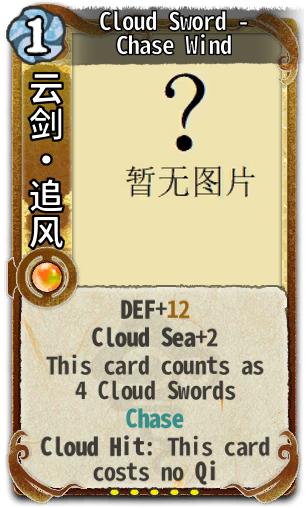
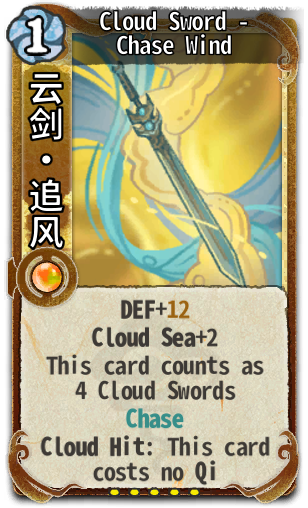
Fix Chase Wind card art

diff --git a/en/seasons/sect-rotation.html b/en/seasons/sect-rotation.html
@@ -8,6 +8,6 @@
 </head>
 <body>
   <header><a class="brand" href="/yxp_wiki/en/index.html">Yi Xian Wiki</a><nav><a href="/yxp_wiki/en/index.html">Home</a><a href="/yxp_wiki/en/characters/index.html">Characters</a><a href="/yxp_wiki/en/cards/index.html">Cards</a><a href="/yxp_wiki/en/fates/index.html">Immortal Fates</a></nav><a class="lang" href="/yxp_wiki/zh/index.html">中文</a></header>
-  <main><section class="season-hero luck-hero"><div><h1>Heavenly Derivation</h1><p class="muted">Starting with this season, new regular sect cards are temporarily added to each sect&#x27;s card pool. The regular sect additions below will be replaced with different cards next season.</p><div class="mechanic-actions"><a class="pill" href="/yxp_wiki/en/cards/index.html">Card catalog</a></div></div><div class="season-hero-cards"><a href="/yxp_wiki/en/cards/7000094.html"><img src="/yxp_wiki/assets/cards/7000094_en.png" alt="Seal Suppression Citta-Dharma"></a><a href="/yxp_wiki/en/cards/10000090.html"><img src="/yxp_wiki/assets/cards/10000090_en.png" alt="Drunken Fist Stance"></a><a href="/yxp_wiki/en/cards/1000098.html"><img src="/yxp_wiki/assets/cards/1000098_en.png" alt="Cloud Sword - Chase Wind"></a></div></section><h2>Ultimate Cards</h2><div class="luck-sect-list"><section class="luck-sect"><div class="luck-sect-head"><img src="/yxp_wiki/assets/sects/sect_badge_1.png" alt=""><div><h3>Cloud Spirit Sword Sect</h3></div></div><div class="luck-card-grid"><a class="luck-card" href="/yxp_wiki/en/cards/1000096.html"><img src="/yxp_wiki/assets/cards/1000096_en.png" alt="Ultimate - Cloud Sword - Softheart"><span>Ultimate - Cloud Sword - Softheart</span></a><a class="luck-card" href="/yxp_wiki/en/cards/1000097.html"><img src="/yxp_wiki/assets/cards/1000097_en.png" alt="Ultimate - Raven Spirit Sword"><span>Ultimate - Raven Spirit Sword</span></a></div></section><section class="luck-sect"><div class="luck-sect-head"><img src="/yxp_wiki/assets/sects/sect_badge_2.png" alt=""><div><h3>Heptastar Pavilion</h3></div></div><div class="luck-card-grid"><a class="luck-card" href="/yxp_wiki/en/cards/4000098.html"><img src="/yxp_wiki/assets/cards/4000098_en.png" alt="Ultimate - Stillness Citta-Dharma"><span>Ultimate - Stillness Citta-Dharma</span></a><a class="luck-card" href="/yxp_wiki/en/cards/4000099.html"><img src="/yxp_wiki/assets/cards/4000099_en.png" alt="Ultimate - Yin Yang Formation"><span>Ultimate - Yin Yang Formation</span></a></div></section><section class="luck-sect"><div class="luck-sect-head"><img src="/yxp_wiki/assets/sects/sect_badge_3.png" alt=""><div><h3>Five Elements Alliance</h3></div></div><div class="luck-card-grid"><a class="luck-card" href="/yxp_wiki/en/cards/7000104.html"><img src="/yxp_wiki/assets/cards/7000104_en.png" alt="Ultimate - Water Spirit Formation"><span>Ultimate - Water Spirit Formation</span></a><a class="luck-card" href="/yxp_wiki/en/cards/7000105.html"><img src="/yxp_wiki/assets/cards/7000105_en.png" alt="Ultimate - Wood Spirit - Forest Guard"><span>Ultimate - Wood Spirit - Forest Guard</span></a></div></section><section class="luck-sect"><div class="luck-sect-head"><img src="/yxp_wiki/assets/sects/sect_badge_4.png" alt=""><div><h3>Duan Xuan Sect</h3></div></div><div class="luck-card-grid"><a class="luck-card" href="/yxp_wiki/en/cards/10000098.html"><img src="/yxp_wiki/assets/cards/10000098_en.png" alt="Ultimate - Crash Footwork"><span>Ultimate - Crash Footwork</span></a><a class="luck-card" href="/yxp_wiki/en/cards/10000099.html"><img src="/yxp_wiki/assets/cards/10000099_en.png" alt="Ultimate - Windward Palms"><span>Ultimate - Windward Palms</span></a></div></section></div><h2>Regular Sect Cards</h2><div class="luck-sect-list"><section class="luck-sect"><div class="luck-sect-head"><img src="/yxp_wiki/assets/sects/sect_badge_1.png" alt=""><div><h3>Cloud Spirit Sword Sect</h3><p class="muted">These regular sect cards enter the pool for this season, then rotate out when next season brings a different set.</p></div></div><div class="luck-card-grid"><a class="luck-card" href="/yxp_wiki/en/cards/1000088.html"><img src="/yxp_wiki/assets/cards/1000088_en.png" alt="Spirit Command Citta-Dharma"><span>Spirit Command Citta-Dharma</span></a><a class="luck-card" href="/yxp_wiki/en/cards/1000089.html"><img src="/yxp_wiki/assets/cards/1000089_en.png" alt="Vermilion Sparrow Spirit Sword"><span>Vermilion Sparrow Spirit Sword</span></a><a class="luck-card" href="/yxp_wiki/en/cards/1000090.html"><img src="/yxp_wiki/assets/cards/1000090_en.png" alt="Flying Leopard Spirit Sword"><span>Flying Leopard Spirit Sword</span></a><a class="luck-card" href="/yxp_wiki/en/cards/1000091.html"><img src="/yxp_wiki/assets/cards/1000091_en.png" alt="Cloud Sword - Rend Sky"><span>Cloud Sword - Rend Sky</span></a><a class="luck-card" href="/yxp_wiki/en/cards/1000092.html"><img src="/yxp_wiki/assets/cards/1000092_en.png" alt="Spirit Pivot Sword Formation"><span>Spirit Pivot Sword Formation</span></a><a class="luck-card" href="/yxp_wiki/en/cards/1000094.html"><img src="/yxp_wiki/assets/cards/1000094_en.png" alt="Swift Shadow Flying Sword"><span>Swift Shadow Flying Sword</span></a><a class="luck-card" href="/yxp_wiki/en/cards/1000095.html"><img src="/yxp_wiki/assets/cards/1000095_en.png" alt="Sword Shadow Barrier"><span>Sword Shadow Barrier</span></a><a class="luck-card" href="/yxp_wiki/en/cards/1000098.html"><img src="/yxp_wiki/assets/cards/1000098_en.png" alt="Cloud Sword - Chase Wind"><span>Cloud Sword - Chase Wind</span></a></div></section><section class="luck-sect"><div class="luck-sect-head"><img src="/yxp_wiki/assets/sects/sect_badge_2.png" alt=""><div><h3>Heptastar Pavilion</h3><p class="muted">These regular sect cards enter the pool for this season, then rotate out when next season brings a different set.</p></div></div><div class="luck-card-grid"><a class="luck-card" href="/yxp_wiki/en/cards/4000090.html"><img src="/yxp_wiki/assets/cards/4000090_en.png" alt="Star Gazing Rhythm"><span>Star Gazing Rhythm</span></a><a class="luck-card" href="/yxp_wiki/en/cards/4000091.html"><img src="/yxp_wiki/assets/cards/4000091_en.png" alt="Rhinoceros Gazing at the Moon"><span>Rhinoceros Gazing at the Moon</span></a><a class="luck-card" href="/yxp_wiki/en/cards/4000092.html"><img src="/yxp_wiki/assets/cards/4000092_en.png" alt="Soul Wound Curse Formation"><span>Soul Wound Curse Formation</span></a><a class="luck-card" href="/yxp_wiki/en/cards/4000093.html"><img src="/yxp_wiki/assets/cards/4000093_en.png" alt="Astral Move - Extend"><span>Astral Move - Extend</span></a><a class="luck-card" href="/yxp_wiki/en/cards/4000094.html"><img src="/yxp_wiki/assets/cards/4000094_en.png" alt="Astral Move - Ko Fight"><span>Astral Move - Ko Fight</span></a><a class="luck-card" href="/yxp_wiki/en/cards/4000095.html"><img src="/yxp_wiki/assets/cards/4000095_en.png" alt="Spirit Snake Coiling Pillar"><span>Spirit Snake Coiling Pillar</span></a><a class="luck-card" href="/yxp_wiki/en/cards/4000096.html"><img src="/yxp_wiki/assets/cards/4000096_en.png" alt="Branch Break Acupressure"><span>Branch Break Acupressure</span></a><a class="luck-card" href="/yxp_wiki/en/cards/4000097.html"><img src="/yxp_wiki/assets/cards/4000097_en.png" alt="Drawing the Bow at the Tiger"><span>Drawing the Bow at the Tiger</span></a></div></section><section class="luck-sect"><div class="luck-sect-head"><img src="/yxp_wiki/assets/sects/sect_badge_3.png" alt=""><div><h3>Five Elements Alliance</h3><p class="muted">These regular sect cards enter the pool for this season, then rotate out when next season brings a different set.</p></div></div><div class="luck-card-grid"><a class="luck-card" href="/yxp_wiki/en/cards/7000094.html"><img src="/yxp_wiki/assets/cards/7000094_en.png" alt="Seal Suppression Citta-Dharma"><span>Seal Suppression Citta-Dharma</span></a><a class="luck-card" href="/yxp_wiki/en/cards/7000095.html"><img src="/yxp_wiki/assets/cards/7000095_en.png" alt="Five Elements Spirit Strike"><span>Five Elements Spirit Strike</span></a><a class="luck-card" href="/yxp_wiki/en/cards/7000096.html"><img src="/yxp_wiki/assets/cards/7000096_en.png" alt="Earth Spirit - Burrow"><span>Earth Spirit - Burrow</span></a><a class="luck-card" href="/yxp_wiki/en/cards/7000097.html"><img src="/yxp_wiki/assets/cards/7000097_en.png" alt="Wood Spirit - Spring Breeze"><span>Wood Spirit - Spring Breeze</span></a><a class="luck-card" href="/yxp_wiki/en/cards/7000098.html"><img src="/yxp_wiki/assets/cards/7000098_en.png" alt="Fire Spirit - Vein Burn Rhythm"><span>Fire Spirit - Vein Burn Rhythm</span></a><a class="luck-card" href="/yxp_wiki/en/cards/7000099.html"><img src="/yxp_wiki/assets/cards/7000099_en.png" alt="Metal Spirit - Returning Edge"><span>Metal Spirit - Returning Edge</span></a><a class="luck-card" href="/yxp_wiki/en/cards/7000100.html"><img src="/yxp_wiki/assets/cards/7000100_en.png" alt="Water Spirit - Ride the Waves"><span>Water Spirit - Ride the Waves</span></a><a class="luck-card" href="/yxp_wiki/en/cards/7000101.html"><img src="/yxp_wiki/assets/cards/7000101_en.png" alt="Primordial Spirit Transmutation"><span>Primordial Spirit Transmutation</span></a></div></section><section class="luck-sect"><div class="luck-sect-head"><img src="/yxp_wiki/assets/sects/sect_badge_4.png" alt=""><div><h3>Duan Xuan Sect</h3><p class="muted">These regular sect cards enter the pool for this season, then rotate out when next season brings a different set.</p></div></div><div class="luck-card-grid"><a class="luck-card" href="/yxp_wiki/en/cards/10000097.html"><img src="/yxp_wiki/assets/cards/10000097_en.png" alt="Vajra Smash"><span>Vajra Smash</span></a><a class="luck-card" href="/yxp_wiki/en/cards/10000090.html"><img src="/yxp_wiki/assets/cards/10000090_en.png" alt="Drunken Fist Stance"><span>Drunken Fist Stance</span></a><a class="luck-card" href="/yxp_wiki/en/cards/10000091.html"><img src="/yxp_wiki/assets/cards/10000091_en.png" alt="Mystic Spirit Healing"><span>Mystic Spirit Healing</span></a><a class="luck-card" href="/yxp_wiki/en/cards/10000092.html"><img src="/yxp_wiki/assets/cards/10000092_en.png" alt="Aerial Sweep"><span>Aerial Sweep</span></a><a class="luck-card" href="/yxp_wiki/en/cards/10000093.html"><img src="/yxp_wiki/assets/cards/10000093_en.png" alt="Crash Fist - Shatter"><span>Crash Fist - Shatter</span></a><a class="luck-card" href="/yxp_wiki/en/cards/10000094.html"><img src="/yxp_wiki/assets/cards/10000094_en.png" alt="Thousand Souls Strike"><span>Thousand Souls Strike</span></a><a class="luck-card" href="/yxp_wiki/en/cards/10000095.html"><img src="/yxp_wiki/assets/cards/10000095_en.png" alt="Blood Shadow Escape"><span>Blood Shadow Escape</span></a><a class="luck-card" href="/yxp_wiki/en/cards/10000096.html"><img src="/yxp_wiki/assets/cards/10000096_en.png" alt="Spirit Forging Finger"><span>Spirit Forging Finger</span></a></div></section></div></main>
+  <main><section class="season-hero luck-hero"><div><h1>Heavenly Derivation</h1><p class="muted">Starting with this season, new regular sect cards are temporarily added to each sect&#x27;s card pool. The regular sect additions below will be replaced with different cards next season.</p><div class="mechanic-actions"><a class="pill" href="/yxp_wiki/en/cards/index.html">Card catalog</a></div></div><div class="season-hero-cards"><a href="/yxp_wiki/en/cards/7000094.html"><img src="/yxp_wiki/assets/cards/7000094_en.png" alt="Seal Suppression Citta-Dharma"></a><a href="/yxp_wiki/en/cards/10000090.html"><img src="/yxp_wiki/assets/cards/10000090_en.png" alt="Drunken Fist Stance"></a><a href="/yxp_wiki/en/cards/1000098.html"><img src="/yxp_wiki/assets/cards/1000098_en.png" alt="Cloud Sword - Chase Wind"></a></div></section><h2>Ultimate Cards</h2><div class="luck-sect-list"><section class="luck-sect"><div class="luck-sect-head"><img src="/yxp_wiki/assets/sects/sect_badge_1.png" alt=""><div><h3>Cloud Spirit Sword Sect</h3></div></div><div class="luck-card-grid"><a class="luck-card" href="/yxp_wiki/en/cards/1000096.html"><img src="/yxp_wiki/assets/cards/1000096_en.png" alt="Ultimate - Cloud Sword - Softheart"><span>Ultimate - Cloud Sword - Softheart</span></a><a class="luck-card" href="/yxp_wiki/en/cards/1000097.html"><img src="/yxp_wiki/assets/cards/1000097_en.png" alt="Ultimate - Raven Spirit Sword"><span>Ultimate - Raven Spirit Sword</span></a></div></section><section class="luck-sect"><div class="luck-sect-head"><img src="/yxp_wiki/assets/sects/sect_badge_2.png" alt=""><div><h3>Heptastar Pavilion</h3></div></div><div class="luck-card-grid"><a class="luck-card" href="/yxp_wiki/en/cards/4000098.html"><img src="/yxp_wiki/assets/cards/4000098_en.png" alt="Ultimate - Stillness Citta-Dharma"><span>Ultimate - Stillness Citta-Dharma</span></a><a class="luck-card" href="/yxp_wiki/en/cards/4000099.html"><img src="/yxp_wiki/assets/cards/4000099_en.png" alt="Ultimate - Yin Yang Formation"><span>Ultimate - Yin Yang Formation</span></a></div></section><section class="luck-sect"><div class="luck-sect-head"><img src="/yxp_wiki/assets/sects/sect_badge_3.png" alt=""><div><h3>Five Elements Alliance</h3></div></div><div class="luck-card-grid"><a class="luck-card" href="/yxp_wiki/en/cards/7000104.html"><img src="/yxp_wiki/assets/cards/7000104_en.png" alt="Ultimate - Water Spirit Formation"><span>Ultimate - Water Spirit Formation</span></a><a class="luck-card" href="/yxp_wiki/en/cards/7000105.html"><img src="/yxp_wiki/assets/cards/7000105_en.png" alt="Ultimate - Wood Spirit - Forest Guard"><span>Ultimate - Wood Spirit - Forest Guard</span></a></div></section><section class="luck-sect"><div class="luck-sect-head"><img src="/yxp_wiki/assets/sects/sect_badge_4.png" alt=""><div><h3>Duan Xuan Sect</h3></div></div><div class="luck-card-grid"><a class="luck-card" href="/yxp_wiki/en/cards/10000098.html"><img src="/yxp_wiki/assets/cards/10000098_en.png" alt="Ultimate - Crash Footwork"><span>Ultimate - Crash Footwork</span></a><a class="luck-card" href="/yxp_wiki/en/cards/10000099.html"><img src="/yxp_wiki/assets/cards/10000099_en.png" alt="Ultimate - Windward Palms"><span>Ultimate - Windward Palms</span></a></div></section></div><h2>Regular Sect Cards</h2><div class="luck-sect-list"><section class="luck-sect"><div class="luck-sect-head"><img src="/yxp_wiki/assets/sects/sect_badge_1.png" alt=""><div><h3>Cloud Spirit Sword Sect</h3></div></div><div class="luck-card-grid"><a class="luck-card" href="/yxp_wiki/en/cards/1000088.html"><img src="/yxp_wiki/assets/cards/1000088_en.png" alt="Spirit Command Citta-Dharma"><span>Spirit Command Citta-Dharma</span></a><a class="luck-card" href="/yxp_wiki/en/cards/1000089.html"><img src="/yxp_wiki/assets/cards/1000089_en.png" alt="Vermilion Sparrow Spirit Sword"><span>Vermilion Sparrow Spirit Sword</span></a><a class="luck-card" href="/yxp_wiki/en/cards/1000090.html"><img src="/yxp_wiki/assets/cards/1000090_en.png" alt="Flying Leopard Spirit Sword"><span>Flying Leopard Spirit Sword</span></a><a class="luck-card" href="/yxp_wiki/en/cards/1000091.html"><img src="/yxp_wiki/assets/cards/1000091_en.png" alt="Cloud Sword - Rend Sky"><span>Cloud Sword - Rend Sky</span></a><a class="luck-card" href="/yxp_wiki/en/cards/1000092.html"><img src="/yxp_wiki/assets/cards/1000092_en.png" alt="Spirit Pivot Sword Formation"><span>Spirit Pivot Sword Formation</span></a><a class="luck-card" href="/yxp_wiki/en/cards/1000094.html"><img src="/yxp_wiki/assets/cards/1000094_en.png" alt="Swift Shadow Flying Sword"><span>Swift Shadow Flying Sword</span></a><a class="luck-card" href="/yxp_wiki/en/cards/1000095.html"><img src="/yxp_wiki/assets/cards/1000095_en.png" alt="Sword Shadow Barrier"><span>Sword Shadow Barrier</span></a><a class="luck-card" href="/yxp_wiki/en/cards/1000098.html"><img src="/yxp_wiki/assets/cards/1000098_en.png" alt="Cloud Sword - Chase Wind"><span>Cloud Sword - Chase Wind</span></a></div></section><section class="luck-sect"><div class="luck-sect-head"><img src="/yxp_wiki/assets/sects/sect_badge_2.png" alt=""><div><h3>Heptastar Pavilion</h3></div></div><div class="luck-card-grid"><a class="luck-card" href="/yxp_wiki/en/cards/4000090.html"><img src="/yxp_wiki/assets/cards/4000090_en.png" alt="Star Gazing Rhythm"><span>Star Gazing Rhythm</span></a><a class="luck-card" href="/yxp_wiki/en/cards/4000091.html"><img src="/yxp_wiki/assets/cards/4000091_en.png" alt="Rhinoceros Gazing at the Moon"><span>Rhinoceros Gazing at the Moon</span></a><a class="luck-card" href="/yxp_wiki/en/cards/4000092.html"><img src="/yxp_wiki/assets/cards/4000092_en.png" alt="Soul Wound Curse Formation"><span>Soul Wound Curse Formation</span></a><a class="luck-card" href="/yxp_wiki/en/cards/4000093.html"><img src="/yxp_wiki/assets/cards/4000093_en.png" alt="Astral Move - Extend"><span>Astral Move - Extend</span></a><a class="luck-card" href="/yxp_wiki/en/cards/4000094.html"><img src="/yxp_wiki/assets/cards/4000094_en.png" alt="Astral Move - Ko Fight"><span>Astral Move - Ko Fight</span></a><a class="luck-card" href="/yxp_wiki/en/cards/4000095.html"><img src="/yxp_wiki/assets/cards/4000095_en.png" alt="Spirit Snake Coiling Pillar"><span>Spirit Snake Coiling Pillar</span></a><a class="luck-card" href="/yxp_wiki/en/cards/4000096.html"><img src="/yxp_wiki/assets/cards/4000096_en.png" alt="Branch Break Acupressure"><span>Branch Break Acupressure</span></a><a class="luck-card" href="/yxp_wiki/en/cards/4000097.html"><img src="/yxp_wiki/assets/cards/4000097_en.png" alt="Drawing the Bow at the Tiger"><span>Drawing the Bow at the Tiger</span></a></div></section><section class="luck-sect"><div class="luck-sect-head"><img src="/yxp_wiki/assets/sects/sect_badge_3.png" alt=""><div><h3>Five Elements Alliance</h3></div></div><div class="luck-card-grid"><a class="luck-card" href="/yxp_wiki/en/cards/7000094.html"><img src="/yxp_wiki/assets/cards/7000094_en.png" alt="Seal Suppression Citta-Dharma"><span>Seal Suppression Citta-Dharma</span></a><a class="luck-card" href="/yxp_wiki/en/cards/7000095.html"><img src="/yxp_wiki/assets/cards/7000095_en.png" alt="Five Elements Spirit Strike"><span>Five Elements Spirit Strike</span></a><a class="luck-card" href="/yxp_wiki/en/cards/7000096.html"><img src="/yxp_wiki/assets/cards/7000096_en.png" alt="Earth Spirit - Burrow"><span>Earth Spirit - Burrow</span></a><a class="luck-card" href="/yxp_wiki/en/cards/7000097.html"><img src="/yxp_wiki/assets/cards/7000097_en.png" alt="Wood Spirit - Spring Breeze"><span>Wood Spirit - Spring Breeze</span></a><a class="luck-card" href="/yxp_wiki/en/cards/7000098.html"><img src="/yxp_wiki/assets/cards/7000098_en.png" alt="Fire Spirit - Vein Burn Rhythm"><span>Fire Spirit - Vein Burn Rhythm</span></a><a class="luck-card" href="/yxp_wiki/en/cards/7000099.html"><img src="/yxp_wiki/assets/cards/7000099_en.png" alt="Metal Spirit - Returning Edge"><span>Metal Spirit - Returning Edge</span></a><a class="luck-card" href="/yxp_wiki/en/cards/7000100.html"><img src="/yxp_wiki/assets/cards/7000100_en.png" alt="Water Spirit - Ride the Waves"><span>Water Spirit - Ride the Waves</span></a><a class="luck-card" href="/yxp_wiki/en/cards/7000101.html"><img src="/yxp_wiki/assets/cards/7000101_en.png" alt="Primordial Spirit Transmutation"><span>Primordial Spirit Transmutation</span></a></div></section><section class="luck-sect"><div class="luck-sect-head"><img src="/yxp_wiki/assets/sects/sect_badge_4.png" alt=""><div><h3>Duan Xuan Sect</h3></div></div><div class="luck-card-grid"><a class="luck-card" href="/yxp_wiki/en/cards/10000097.html"><img src="/yxp_wiki/assets/cards/10000097_en.png" alt="Vajra Smash"><span>Vajra Smash</span></a><a class="luck-card" href="/yxp_wiki/en/cards/10000090.html"><img src="/yxp_wiki/assets/cards/10000090_en.png" alt="Drunken Fist Stance"><span>Drunken Fist Stance</span></a><a class="luck-card" href="/yxp_wiki/en/cards/10000091.html"><img src="/yxp_wiki/assets/cards/10000091_en.png" alt="Mystic Spirit Healing"><span>Mystic Spirit Healing</span></a><a class="luck-card" href="/yxp_wiki/en/cards/10000092.html"><img src="/yxp_wiki/assets/cards/10000092_en.png" alt="Aerial Sweep"><span>Aerial Sweep</span></a><a class="luck-card" href="/yxp_wiki/en/cards/10000093.html"><img src="/yxp_wiki/assets/cards/10000093_en.png" alt="Crash Fist - Shatter"><span>Crash Fist - Shatter</span></a><a class="luck-card" href="/yxp_wiki/en/cards/10000094.html"><img src="/yxp_wiki/assets/cards/10000094_en.png" alt="Thousand Souls Strike"><span>Thousand Souls Strike</span></a><a class="luck-card" href="/yxp_wiki/en/cards/10000095.html"><img src="/yxp_wiki/assets/cards/10000095_en.png" alt="Blood Shadow Escape"><span>Blood Shadow Escape</span></a><a class="luck-card" href="/yxp_wiki/en/cards/10000096.html"><img src="/yxp_wiki/assets/cards/10000096_en.png" alt="Spirit Forging Finger"><span>Spirit Forging Finger</span></a></div></section></div></main>
 </body>
 </html>

diff --git a/zh/seasons/sect-rotation.html b/zh/seasons/sect-rotation.html
@@ -8,6 +8,6 @@
 </head>
 <body>
   <header><a class="brand" href="/yxp_wiki/zh/index.html">Yi Xian Wiki</a><nav><a href="/yxp_wiki/zh/index.html">首页</a><a href="/yxp_wiki/zh/characters/index.html">角色</a><a href="/yxp_wiki/zh/cards/index.html">卡牌</a><a href="/yxp_wiki/zh/fates/index.html">仙命</a></nav><a class="lang" href="/yxp_wiki/en/index.html">English</a></header>
-  <main><section class="season-hero luck-hero"><div><h1>天衍万象</h1><p class="muted">从本赛季开始，会向各宗门牌池临时加入新的普通宗门牌。下方普通宗门新增牌会在下个赛季被替换为其他卡牌。</p><div class="mechanic-actions"><a class="pill" href="/yxp_wiki/zh/cards/index.html">卡牌目录</a></div></div><div class="season-hero-cards"><a href="/yxp_wiki/zh/cards/7000094.html"><img src="/yxp_wiki/assets/cards/7000094_zh.png" alt="镇印心法"></a><a href="/yxp_wiki/zh/cards/10000090.html"><img src="/yxp_wiki/assets/cards/10000090_zh.png" alt="醉拳架势"></a><a href="/yxp_wiki/zh/cards/1000098.html"><img src="/yxp_wiki/assets/cards/1000098_zh.png" alt="云剑•追风"></a></div></section><h2>极境牌</h2><div class="luck-sect-list"><section class="luck-sect"><div class="luck-sect-head"><img src="/yxp_wiki/assets/sects/sect_badge_1.png" alt=""><div><h3>云灵剑宗</h3></div></div><div class="luck-card-grid"><a class="luck-card" href="/yxp_wiki/zh/cards/1000096.html"><img src="/yxp_wiki/assets/cards/1000096_zh.png" alt="极•云剑柔心"><span>极•云剑柔心</span></a><a class="luck-card" href="/yxp_wiki/zh/cards/1000097.html"><img src="/yxp_wiki/assets/cards/1000097_zh.png" alt="极•暗鸦灵剑"><span>极•暗鸦灵剑</span></a></div></section><section class="luck-sect"><div class="luck-sect-head"><img src="/yxp_wiki/assets/sects/sect_badge_2.png" alt=""><div><h3>七星阁</h3></div></div><div class="luck-card-grid"><a class="luck-card" href="/yxp_wiki/zh/cards/4000098.html"><img src="/yxp_wiki/assets/cards/4000098_zh.png" alt="极•静气心法"><span>极•静气心法</span></a><a class="luck-card" href="/yxp_wiki/zh/cards/4000099.html"><img src="/yxp_wiki/assets/cards/4000099_zh.png" alt="极•两仪阵"><span>极•两仪阵</span></a></div></section><section class="luck-sect"><div class="luck-sect-head"><img src="/yxp_wiki/assets/sects/sect_badge_3.png" alt=""><div><h3>五行道盟</h3></div></div><div class="luck-card-grid"><a class="luck-card" href="/yxp_wiki/zh/cards/7000104.html"><img src="/yxp_wiki/assets/cards/7000104_zh.png" alt="极•水灵阵"><span>极•水灵阵</span></a><a class="luck-card" href="/yxp_wiki/zh/cards/7000105.html"><img src="/yxp_wiki/assets/cards/7000105_zh.png" alt="极•木灵巡林"><span>极•木灵巡林</span></a></div></section><section class="luck-sect"><div class="luck-sect-head"><img src="/yxp_wiki/assets/sects/sect_badge_4.png" alt=""><div><h3>锻玄宗</h3></div></div><div class="luck-card-grid"><a class="luck-card" href="/yxp_wiki/zh/cards/10000098.html"><img src="/yxp_wiki/assets/cards/10000098_zh.png" alt="极•崩天步"><span>极•崩天步</span></a><a class="luck-card" href="/yxp_wiki/zh/cards/10000099.html"><img src="/yxp_wiki/assets/cards/10000099_zh.png" alt="极•迎风掌"><span>极•迎风掌</span></a></div></section></div><h2>普通宗门牌</h2><div class="luck-sect-list"><section class="luck-sect"><div class="luck-sect-head"><img src="/yxp_wiki/assets/sects/sect_badge_1.png" alt=""><div><h3>云灵剑宗</h3><p class="muted">这些普通宗门牌会在本赛季进入牌池，并在下个赛季轮换为另一批卡牌。</p></div></div><div class="luck-card-grid"><a class="luck-card" href="/yxp_wiki/zh/cards/1000088.html"><img src="/yxp_wiki/assets/cards/1000088_zh.png" alt="御灵心法"><span>御灵心法</span></a><a class="luck-card" href="/yxp_wiki/zh/cards/1000089.html"><img src="/yxp_wiki/assets/cards/1000089_zh.png" alt="丹雀灵剑"><span>丹雀灵剑</span></a><a class="luck-card" href="/yxp_wiki/zh/cards/1000090.html"><img src="/yxp_wiki/assets/cards/1000090_zh.png" alt="飞豹灵剑"><span>飞豹灵剑</span></a><a class="luck-card" href="/yxp_wiki/zh/cards/1000091.html"><img src="/yxp_wiki/assets/cards/1000091_zh.png" alt="云剑•裂空"><span>云剑•裂空</span></a><a class="luck-card" href="/yxp_wiki/zh/cards/1000092.html"><img src="/yxp_wiki/assets/cards/1000092_zh.png" alt="灵枢剑阵"><span>灵枢剑阵</span></a><a class="luck-card" href="/yxp_wiki/zh/cards/1000094.html"><img src="/yxp_wiki/assets/cards/1000094_zh.png" alt="迅影飞剑"><span>迅影飞剑</span></a><a class="luck-card" href="/yxp_wiki/zh/cards/1000095.html"><img src="/yxp_wiki/assets/cards/1000095_zh.png" alt="剑影结界"><span>剑影结界</span></a><a class="luck-card" href="/yxp_wiki/zh/cards/1000098.html"><img src="/yxp_wiki/assets/cards/1000098_zh.png" alt="云剑•追风"><span>云剑•追风</span></a></div></section><section class="luck-sect"><div class="luck-sect-head"><img src="/yxp_wiki/assets/sects/sect_badge_2.png" alt=""><div><h3>七星阁</h3><p class="muted">这些普通宗门牌会在本赛季进入牌池，并在下个赛季轮换为另一批卡牌。</p></div></div><div class="luck-card-grid"><a class="luck-card" href="/yxp_wiki/zh/cards/4000090.html"><img src="/yxp_wiki/assets/cards/4000090_zh.png" alt="望星诀"><span>望星诀</span></a><a class="luck-card" href="/yxp_wiki/zh/cards/4000091.html"><img src="/yxp_wiki/assets/cards/4000091_zh.png" alt="犀牛望月"><span>犀牛望月</span></a><a class="luck-card" href="/yxp_wiki/zh/cards/4000092.html"><img src="/yxp_wiki/assets/cards/4000092_zh.png" alt="伤魂咒阵"><span>伤魂咒阵</span></a><a class="luck-card" href="/yxp_wiki/zh/cards/4000093.html"><img src="/yxp_wiki/assets/cards/4000093_zh.png" alt="星弈•长"><span>星弈•长</span></a><a class="luck-card" href="/yxp_wiki/zh/cards/4000094.html"><img src="/yxp_wiki/assets/cards/4000094_zh.png" alt="星弈•劫争"><span>星弈•劫争</span></a><a class="luck-card" href="/yxp_wiki/zh/cards/4000095.html"><img src="/yxp_wiki/assets/cards/4000095_zh.png" alt="灵蛇绕柱"><span>灵蛇绕柱</span></a><a class="luck-card" href="/yxp_wiki/zh/cards/4000096.html"><img src="/yxp_wiki/assets/cards/4000096_zh.png" alt="折枝点穴"><span>折枝点穴</span></a><a class="luck-card" href="/yxp_wiki/zh/cards/4000097.html"><img src="/yxp_wiki/assets/cards/4000097_zh.png" alt="弯弓射虎"><span>弯弓射虎</span></a></div></section><section class="luck-sect"><div class="luck-sect-head"><img src="/yxp_wiki/assets/sects/sect_badge_3.png" alt=""><div><h3>五行道盟</h3><p class="muted">这些普通宗门牌会在本赛季进入牌池，并在下个赛季轮换为另一批卡牌。</p></div></div><div class="luck-card-grid"><a class="luck-card" href="/yxp_wiki/zh/cards/7000094.html"><img src="/yxp_wiki/assets/cards/7000094_zh.png" alt="镇印心法"><span>镇印心法</span></a><a class="luck-card" href="/yxp_wiki/zh/cards/7000095.html"><img src="/yxp_wiki/assets/cards/7000095_zh.png" alt="五行灵击"><span>五行灵击</span></a><a class="luck-card" href="/yxp_wiki/zh/cards/7000096.html"><img src="/yxp_wiki/assets/cards/7000096_zh.png" alt="土灵•遁地"><span>土灵•遁地</span></a><a class="luck-card" href="/yxp_wiki/zh/cards/7000097.html"><img src="/yxp_wiki/assets/cards/7000097_zh.png" alt="木灵•春风拂"><span>木灵•春风拂</span></a><a class="luck-card" href="/yxp_wiki/zh/cards/7000098.html"><img src="/yxp_wiki/assets/cards/7000098_zh.png" alt="火灵•焚脉诀"><span>火灵•焚脉诀</span></a><a class="luck-card" href="/yxp_wiki/zh/cards/7000099.html"><img src="/yxp_wiki/assets/cards/7000099_zh.png" alt="金灵•回锋刃"><span>金灵•回锋刃</span></a><a class="luck-card" href="/yxp_wiki/zh/cards/7000100.html"><img src="/yxp_wiki/assets/cards/7000100_zh.png" alt="水灵•乘风浪"><span>水灵•乘风浪</span></a><a class="luck-card" href="/yxp_wiki/zh/cards/7000101.html"><img src="/yxp_wiki/assets/cards/7000101_zh.png" alt="混元化灵"><span>混元化灵</span></a></div></section><section class="luck-sect"><div class="luck-sect-head"><img src="/yxp_wiki/assets/sects/sect_badge_4.png" alt=""><div><h3>锻玄宗</h3><p class="muted">这些普通宗门牌会在本赛季进入牌池，并在下个赛季轮换为另一批卡牌。</p></div></div><div class="luck-card-grid"><a class="luck-card" href="/yxp_wiki/zh/cards/10000097.html"><img src="/yxp_wiki/assets/cards/10000097_zh.png" alt="金刚捣碓"><span>金刚捣碓</span></a><a class="luck-card" href="/yxp_wiki/zh/cards/10000090.html"><img src="/yxp_wiki/assets/cards/10000090_zh.png" alt="醉拳架势"><span>醉拳架势</span></a><a class="luck-card" href="/yxp_wiki/zh/cards/10000091.html"><img src="/yxp_wiki/assets/cards/10000091_zh.png" alt="玄灵愈体"><span>玄灵愈体</span></a><a class="luck-card" href="/yxp_wiki/zh/cards/10000092.html"><img src="/yxp_wiki/assets/cards/10000092_zh.png" alt="凌空飞扫"><span>凌空飞扫</span></a><a class="luck-card" href="/yxp_wiki/zh/cards/10000093.html"><img src="/yxp_wiki/assets/cards/10000093_zh.png" alt="崩拳•碎骨"><span>崩拳•碎骨</span></a><a class="luck-card" href="/yxp_wiki/zh/cards/10000094.html"><img src="/yxp_wiki/assets/cards/10000094_zh.png" alt="万魂破军"><span>万魂破军</span></a><a class="luck-card" href="/yxp_wiki/zh/cards/10000095.html"><img src="/yxp_wiki/assets/cards/10000095_zh.png" alt="血影遁术"><span>血影遁术</span></a><a class="luck-card" href="/yxp_wiki/zh/cards/10000096.html"><img src="/yxp_wiki/assets/cards/10000096_zh.png" alt="锻灵指"><span>锻灵指</span></a></div></section></div></main>
+  <main><section class="season-hero luck-hero"><div><h1>天衍万象</h1><p class="muted">从本赛季开始，会向各宗门牌池临时加入新的普通宗门牌。下方普通宗门新增牌会在下个赛季被替换为其他卡牌。</p><div class="mechanic-actions"><a class="pill" href="/yxp_wiki/zh/cards/index.html">卡牌目录</a></div></div><div class="season-hero-cards"><a href="/yxp_wiki/zh/cards/7000094.html"><img src="/yxp_wiki/assets/cards/7000094_zh.png" alt="镇印心法"></a><a href="/yxp_wiki/zh/cards/10000090.html"><img src="/yxp_wiki/assets/cards/10000090_zh.png" alt="醉拳架势"></a><a href="/yxp_wiki/zh/cards/1000098.html"><img src="/yxp_wiki/assets/cards/1000098_zh.png" alt="云剑•追风"></a></div></section><h2>极境牌</h2><div class="luck-sect-list"><section class="luck-sect"><div class="luck-sect-head"><img src="/yxp_wiki/assets/sects/sect_badge_1.png" alt=""><div><h3>云灵剑宗</h3></div></div><div class="luck-card-grid"><a class="luck-card" href="/yxp_wiki/zh/cards/1000096.html"><img src="/yxp_wiki/assets/cards/1000096_zh.png" alt="极•云剑柔心"><span>极•云剑柔心</span></a><a class="luck-card" href="/yxp_wiki/zh/cards/1000097.html"><img src="/yxp_wiki/assets/cards/1000097_zh.png" alt="极•暗鸦灵剑"><span>极•暗鸦灵剑</span></a></div></section><section class="luck-sect"><div class="luck-sect-head"><img src="/yxp_wiki/assets/sects/sect_badge_2.png" alt=""><div><h3>七星阁</h3></div></div><div class="luck-card-grid"><a class="luck-card" href="/yxp_wiki/zh/cards/4000098.html"><img src="/yxp_wiki/assets/cards/4000098_zh.png" alt="极•静气心法"><span>极•静气心法</span></a><a class="luck-card" href="/yxp_wiki/zh/cards/4000099.html"><img src="/yxp_wiki/assets/cards/4000099_zh.png" alt="极•两仪阵"><span>极•两仪阵</span></a></div></section><section class="luck-sect"><div class="luck-sect-head"><img src="/yxp_wiki/assets/sects/sect_badge_3.png" alt=""><div><h3>五行道盟</h3></div></div><div class="luck-card-grid"><a class="luck-card" href="/yxp_wiki/zh/cards/7000104.html"><img src="/yxp_wiki/assets/cards/7000104_zh.png" alt="极•水灵阵"><span>极•水灵阵</span></a><a class="luck-card" href="/yxp_wiki/zh/cards/7000105.html"><img src="/yxp_wiki/assets/cards/7000105_zh.png" alt="极•木灵巡林"><span>极•木灵巡林</span></a></div></section><section class="luck-sect"><div class="luck-sect-head"><img src="/yxp_wiki/assets/sects/sect_badge_4.png" alt=""><div><h3>锻玄宗</h3></div></div><div class="luck-card-grid"><a class="luck-card" href="/yxp_wiki/zh/cards/10000098.html"><img src="/yxp_wiki/assets/cards/10000098_zh.png" alt="极•崩天步"><span>极•崩天步</span></a><a class="luck-card" href="/yxp_wiki/zh/cards/10000099.html"><img src="/yxp_wiki/assets/cards/10000099_zh.png" alt="极•迎风掌"><span>极•迎风掌</span></a></div></section></div><h2>普通宗门牌</h2><div class="luck-sect-list"><section class="luck-sect"><div class="luck-sect-head"><img src="/yxp_wiki/assets/sects/sect_badge_1.png" alt=""><div><h3>云灵剑宗</h3></div></div><div class="luck-card-grid"><a class="luck-card" href="/yxp_wiki/zh/cards/1000088.html"><img src="/yxp_wiki/assets/cards/1000088_zh.png" alt="御灵心法"><span>御灵心法</span></a><a class="luck-card" href="/yxp_wiki/zh/cards/1000089.html"><img src="/yxp_wiki/assets/cards/1000089_zh.png" alt="丹雀灵剑"><span>丹雀灵剑</span></a><a class="luck-card" href="/yxp_wiki/zh/cards/1000090.html"><img src="/yxp_wiki/assets/cards/1000090_zh.png" alt="飞豹灵剑"><span>飞豹灵剑</span></a><a class="luck-card" href="/yxp_wiki/zh/cards/1000091.html"><img src="/yxp_wiki/assets/cards/1000091_zh.png" alt="云剑•裂空"><span>云剑•裂空</span></a><a class="luck-card" href="/yxp_wiki/zh/cards/1000092.html"><img src="/yxp_wiki/assets/cards/1000092_zh.png" alt="灵枢剑阵"><span>灵枢剑阵</span></a><a class="luck-card" href="/yxp_wiki/zh/cards/1000094.html"><img src="/yxp_wiki/assets/cards/1000094_zh.png" alt="迅影飞剑"><span>迅影飞剑</span></a><a class="luck-card" href="/yxp_wiki/zh/cards/1000095.html"><img src="/yxp_wiki/assets/cards/1000095_zh.png" alt="剑影结界"><span>剑影结界</span></a><a class="luck-card" href="/yxp_wiki/zh/cards/1000098.html"><img src="/yxp_wiki/assets/cards/1000098_zh.png" alt="云剑•追风"><span>云剑•追风</span></a></div></section><section class="luck-sect"><div class="luck-sect-head"><img src="/yxp_wiki/assets/sects/sect_badge_2.png" alt=""><div><h3>七星阁</h3></div></div><div class="luck-card-grid"><a class="luck-card" href="/yxp_wiki/zh/cards/4000090.html"><img src="/yxp_wiki/assets/cards/4000090_zh.png" alt="望星诀"><span>望星诀</span></a><a class="luck-card" href="/yxp_wiki/zh/cards/4000091.html"><img src="/yxp_wiki/assets/cards/4000091_zh.png" alt="犀牛望月"><span>犀牛望月</span></a><a class="luck-card" href="/yxp_wiki/zh/cards/4000092.html"><img src="/yxp_wiki/assets/cards/4000092_zh.png" alt="伤魂咒阵"><span>伤魂咒阵</span></a><a class="luck-card" href="/yxp_wiki/zh/cards/4000093.html"><img src="/yxp_wiki/assets/cards/4000093_zh.png" alt="星弈•长"><span>星弈•长</span></a><a class="luck-card" href="/yxp_wiki/zh/cards/4000094.html"><img src="/yxp_wiki/assets/cards/4000094_zh.png" alt="星弈•劫争"><span>星弈•劫争</span></a><a class="luck-card" href="/yxp_wiki/zh/cards/4000095.html"><img src="/yxp_wiki/assets/cards/4000095_zh.png" alt="灵蛇绕柱"><span>灵蛇绕柱</span></a><a class="luck-card" href="/yxp_wiki/zh/cards/4000096.html"><img src="/yxp_wiki/assets/cards/4000096_zh.png" alt="折枝点穴"><span>折枝点穴</span></a><a class="luck-card" href="/yxp_wiki/zh/cards/4000097.html"><img src="/yxp_wiki/assets/cards/4000097_zh.png" alt="弯弓射虎"><span>弯弓射虎</span></a></div></section><section class="luck-sect"><div class="luck-sect-head"><img src="/yxp_wiki/assets/sects/sect_badge_3.png" alt=""><div><h3>五行道盟</h3></div></div><div class="luck-card-grid"><a class="luck-card" href="/yxp_wiki/zh/cards/7000094.html"><img src="/yxp_wiki/assets/cards/7000094_zh.png" alt="镇印心法"><span>镇印心法</span></a><a class="luck-card" href="/yxp_wiki/zh/cards/7000095.html"><img src="/yxp_wiki/assets/cards/7000095_zh.png" alt="五行灵击"><span>五行灵击</span></a><a class="luck-card" href="/yxp_wiki/zh/cards/7000096.html"><img src="/yxp_wiki/assets/cards/7000096_zh.png" alt="土灵•遁地"><span>土灵•遁地</span></a><a class="luck-card" href="/yxp_wiki/zh/cards/7000097.html"><img src="/yxp_wiki/assets/cards/7000097_zh.png" alt="木灵•春风拂"><span>木灵•春风拂</span></a><a class="luck-card" href="/yxp_wiki/zh/cards/7000098.html"><img src="/yxp_wiki/assets/cards/7000098_zh.png" alt="火灵•焚脉诀"><span>火灵•焚脉诀</span></a><a class="luck-card" href="/yxp_wiki/zh/cards/7000099.html"><img src="/yxp_wiki/assets/cards/7000099_zh.png" alt="金灵•回锋刃"><span>金灵•回锋刃</span></a><a class="luck-card" href="/yxp_wiki/zh/cards/7000100.html"><img src="/yxp_wiki/assets/cards/7000100_zh.png" alt="水灵•乘风浪"><span>水灵•乘风浪</span></a><a class="luck-card" href="/yxp_wiki/zh/cards/7000101.html"><img src="/yxp_wiki/assets/cards/7000101_zh.png" alt="混元化灵"><span>混元化灵</span></a></div></section><section class="luck-sect"><div class="luck-sect-head"><img src="/yxp_wiki/assets/sects/sect_badge_4.png" alt=""><div><h3>锻玄宗</h3></div></div><div class="luck-card-grid"><a class="luck-card" href="/yxp_wiki/zh/cards/10000097.html"><img src="/yxp_wiki/assets/cards/10000097_zh.png" alt="金刚捣碓"><span>金刚捣碓</span></a><a class="luck-card" href="/yxp_wiki/zh/cards/10000090.html"><img src="/yxp_wiki/assets/cards/10000090_zh.png" alt="醉拳架势"><span>醉拳架势</span></a><a class="luck-card" href="/yxp_wiki/zh/cards/10000091.html"><img src="/yxp_wiki/assets/cards/10000091_zh.png" alt="玄灵愈体"><span>玄灵愈体</span></a><a class="luck-card" href="/yxp_wiki/zh/cards/10000092.html"><img src="/yxp_wiki/assets/cards/10000092_zh.png" alt="凌空飞扫"><span>凌空飞扫</span></a><a class="luck-card" href="/yxp_wiki/zh/cards/10000093.html"><img src="/yxp_wiki/assets/cards/10000093_zh.png" alt="崩拳•碎骨"><span>崩拳•碎骨</span></a><a class="luck-card" href="/yxp_wiki/zh/cards/10000094.html"><img src="/yxp_wiki/assets/cards/10000094_zh.png" alt="万魂破军"><span>万魂破军</span></a><a class="luck-card" href="/yxp_wiki/zh/cards/10000095.html"><img src="/yxp_wiki/assets/cards/10000095_zh.png" alt="血影遁术"><span>血影遁术</span></a><a class="luck-card" href="/yxp_wiki/zh/cards/10000096.html"><img src="/yxp_wiki/assets/cards/10000096_zh.png" alt="锻灵指"><span>锻灵指</span></a></div></section></div></main>
 </body>
 </html>
